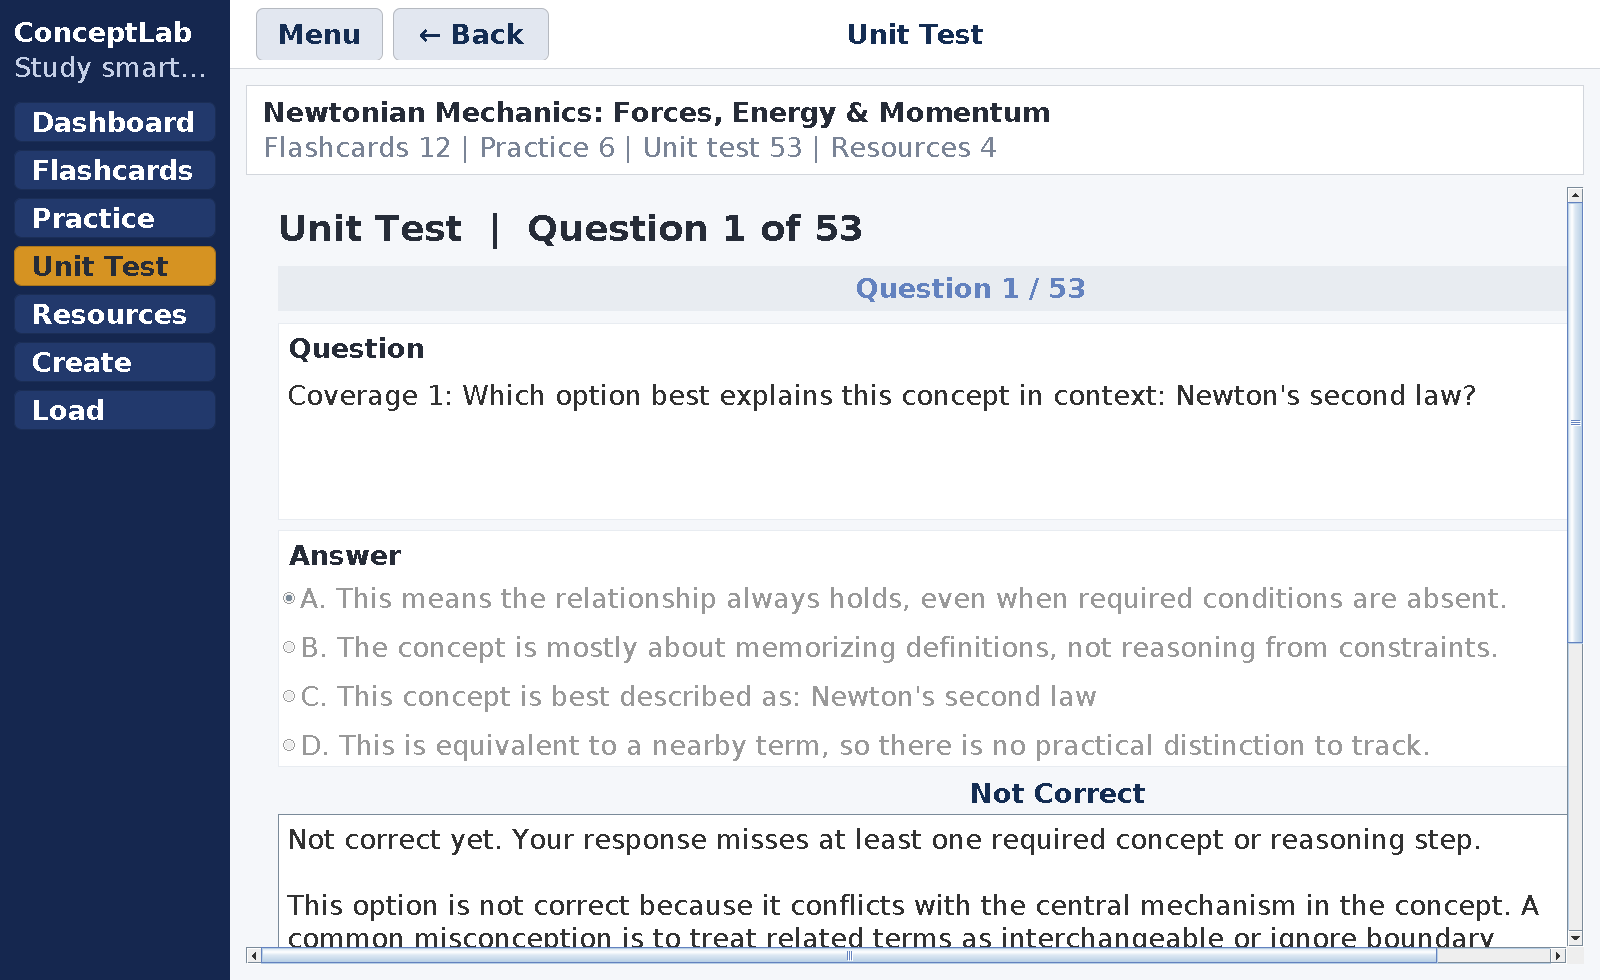
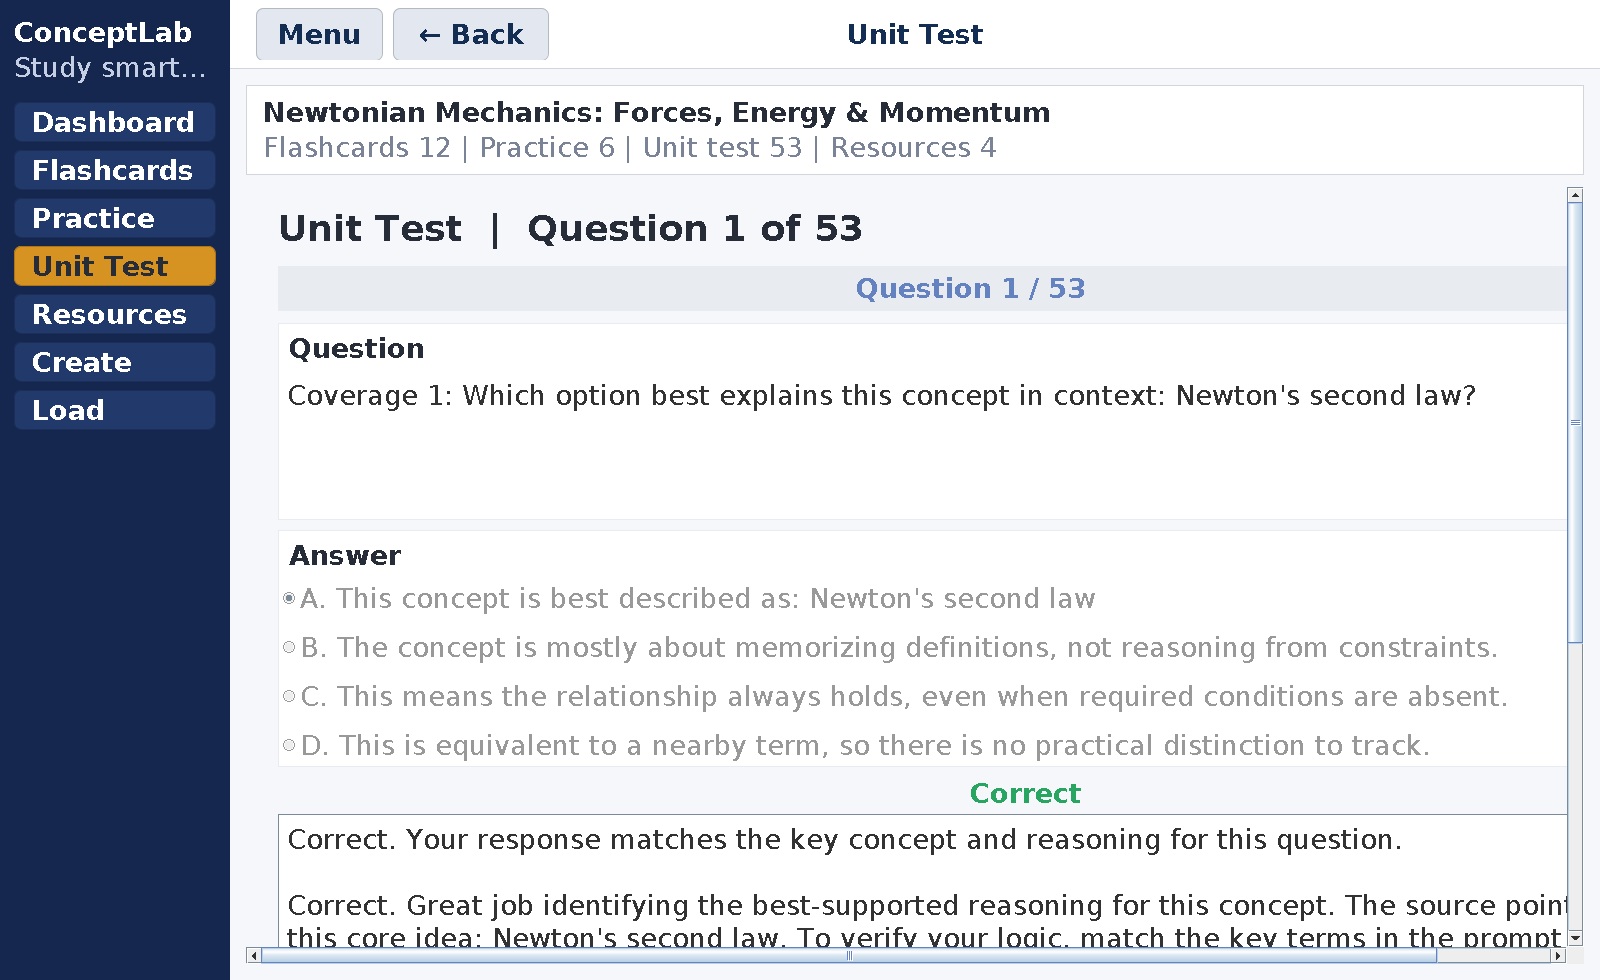
Refine documentation and verification assets

diff --git a/README.md b/README.md
@@ -1,11 +1,9 @@
 <p align="center">
-  <img src="ConceptLabLogo.png" alt="ConceptLab logo" width="96">
+  <img src="ConceptLabLogo.jpg" alt="ConceptLab logo" width="180">
 </p>
 
-<h1 align="center">ConceptLab</h1>
-
 <p align="center">
-  <strong>A Java desktop study platform I built to turn course material into application-focused practice, feedback, and reusable StudySets.</strong>
+  <strong>A Java desktop study platform I built to turn learning material into application-focused practice, feedback, and reusable StudySets.</strong>
 </p>
 
 <p align="center">
@@ -21,17 +19,13 @@
   <a href="#run-locally">Run locally</a>
 </p>
 
-| Independent ownership | Real-world use | Verified portfolio evidence |
-| --- | --- | --- |
-| Sole designer and developer | 60+ users and testers during development, with several classmates and friends adopting it for their own studying | GitHub Actions compiles the application, runs self-tests, checks for exposed Groq credentials, launches the real Swing UI, and regenerates the screenshots used here |
-
 ![ConceptLab dashboard showing a Newtonian Mechanics StudySet](docs/media/conceptlab-dashboard.png)
 
 *This screenshot is generated from the current application in CI using an isolated demo StudySet. It is not a mockup.*
 
 ## Why I built it
 
-ConceptLab began with a problem I kept seeing around me: students could spend hours reviewing notes and memorizing definitions, then struggle when a test changed the context and asked them to **apply** what they knew.
+ConceptLab began with a problem I kept seeing around me: people could spend hours reviewing notes and memorizing definitions, then struggle when a test changed the context and asked them to **apply** what they knew.
 
 I wanted to build something that treated that gap as the center of the study process. Instead of stopping at flashcards, ConceptLab connects source material, practice, testing, feedback, review, and saved progress in one local desktop workflow.
 
@@ -89,7 +83,7 @@ For a deeper technical walkthrough, see [`docs/ARCHITECTURE.md`](docs/ARCHITECTU
 
 ### From notes to a learning path
 
-A StudySet begins with the student's own source material. The user can also specify learning goals, custom instructions, target difficulty, flashcard count, and whether challenge-style material should be included.
+A StudySet begins with the user's own source material. The user can also specify learning goals, custom instructions, target difficulty, flashcard count, and whether challenge-style material should be included.
 
 ![ConceptLab StudySet creation form populated with mechanics notes and learning goals](docs/media/create-study-set.png)
 
@@ -97,7 +91,7 @@ The system can then build flashcards, a broader unit-test bank, and related lear
 
 ### Practice is configurable, not fixed
 
-Students can change question count, difficulty, response style, challenge level, whether previously seen prompts should be avoided, and whether correct-answer text should remain unique.
+Users can change question count, difficulty, response style, challenge level, whether previously seen prompts should be avoided, and whether correct-answer text should remain unique.
 
 ![ConceptLab fresh-practice settings showing difficulty, response mix, challenge, seen-question, and uniqueness controls](docs/media/practice-settings.png)
 
@@ -127,13 +121,13 @@ ConceptLab became stronger when I stopped treating added functionality as the sa
 | Early development rewarded adding features | Shift from feature-first to utility-first design | Kept the product focused on the learning loop instead of accumulating unnecessary controls |
 | Detailed analytics would add storage and interface complexity without solving the core problem | Keep only the best unit-test score | Preserved useful progress feedback while keeping the persistence model simple |
 | Model responses could be malformed, truncated, repetitive, rate-limited, or unavailable | Add structured contracts, validation, batching, retries, token budgeting, duplicate filtering, and fallback paths | Turned generation from a single API call into a guarded pipeline |
-| Testing with other students made clarity and usefulness more important than the feature checklist | Make practice configurable and connect mistakes back to learning material | Shifted the product toward a clearer repeatable study workflow |
+| Testing with other users made clarity and usefulness more important than the feature checklist | Make practice configurable and connect mistakes back to learning material | Shifted the product toward a clearer repeatable study workflow |
 
 The most important design lesson was **more complexity does not automatically make a better product**.
 
 ## User testing and adoption
 
-ConceptLab was used or tested by **60+ people during development**, including classmates, friends, and peers. Several students moved beyond a one-time test and began using it to support their own studying.
+ConceptLab was used or tested by **60+ people during development**, including friends, peers, and other users. Several people moved beyond a one-time test and began using it to support their own learning.
 
 I use that wording deliberately. ConceptLab did not collect production telemetry for monthly active users, retention, session counts, or measured grade improvements, so I do not claim those metrics.
 
@@ -180,7 +174,7 @@ I owned the project end to end:
 - building the local persistence format and domain validation;
 - integrating and hardening the Groq generation pipeline;
 - debugging API, output, persistence, and interface failures;
-- testing the product with other students and changing priorities based on what was useful;
+- testing the product with other users and changing priorities based on what was useful;
 - preparing the reproducible public portfolio presentation.
 
 Development tools, including AI-assisted coding tools, were part of the programming workflow. The product decisions, requirements, integration work, testing, debugging, and final project ownership were mine.

diff --git a/docs/USER_TESTING.md b/docs/USER_TESTING.md
@@ -1,8 +1,8 @@
 # User Testing and Adoption
 
-ConceptLab was not developed only as a private coding exercise. During development, I shared it with **60+ users and testers**, including classmates, friends, and peers, so I could see whether the product made sense outside my own workflow.
+ConceptLab was not developed only as a private coding exercise. During development, I shared it with **60+ users and testers**, including friends, peers, and other users, so I could see whether the product made sense outside my own workflow.
 
-Several students went beyond a one-time test and began using ConceptLab to support their own studying.
+Several people went beyond a one-time test and began using ConceptLab to support their own learning.
 
 ## What the 60+ figure means
 
@@ -20,18 +20,18 @@ ConceptLab did not include production telemetry that measured:
 
 I therefore do not claim those metrics.
 
-The strongest outcome I can support is simpler: some classmates, friends, and peers found the project useful enough to continue using it for their own learning after being introduced to it.
+The strongest outcome I can support is simpler: some friends, peers, and other users found the project useful enough to continue using it for their own learning after being introduced to it.
 
 ## What I was trying to learn from testing
 
-The original presentation work around ConceptLab focused on a recurring student problem: having notes and recognizing definitions does not guarantee that a student can apply a concept when the context changes.
+Early ConceptLab development focused on a recurring learning problem: having notes and recognizing definitions does not guarantee that someone can apply a concept when the context changes.
 
 Testing therefore mattered less as a popularity exercise and more as a way to ask practical product questions:
 
-- Can another student understand the workflow without me explaining every step?
+- Can another user understand the workflow without me explaining every step?
 - Does practice feel different from simply re-reading notes or reviewing definitions?
 - Are generated questions varied enough to remain useful?
-- Does feedback help a student decide what to review next?
+- Does feedback help a user decide what to review next?
 - Are the controls worth the complexity they add?
 - Does the application remain usable when generation or integration behavior is imperfect?
 
@@ -43,7 +43,7 @@ That changed the way I evaluated progress. A feature was no longer automatically
 | --- | --- |
 | Recognition alone was not the learning problem I wanted to solve | Emphasize application, inference, method selection, error diagnosis, and explanation in generated practice |
 | Repetition reduced the value of generated practice | Add normalized prompt tracking, seen-question avoidance, answer-uniqueness controls, and separation between practice and unit-test banks |
-| Different students wanted different kinds of practice | Make quiz length, difficulty, response mix, and challenge level configurable |
+| Different users wanted different kinds of practice | Make quiz length, difficulty, response mix, and challenge level configurable |
 | A wrong answer should lead to a next step | Connect question feedback with related resources and flashcards |
 | More controls and features could make the tool harder to use | Shift from feature-first development toward utility-first design |
 | Framework and integration friction slowed iteration | Simplify the desktop stack and move from earlier JavaFX work to Swing |
@@ -57,8 +57,8 @@ These changes are more important to the portfolio than the raw tester count beca
 
 - ConceptLab was independently designed and developed by Kevin Zhu.
 - It was used or tested by 60+ people during development.
-- The testing group included classmates, friends, and peers.
-- Several students adopted the project to support their own studying.
+- The testing group included friends, peers, and other users.
+- Several people adopted the project to support their own learning.
 - Testing and repeated use influenced the product decisions described above.
 
 ### Claims I do not make
